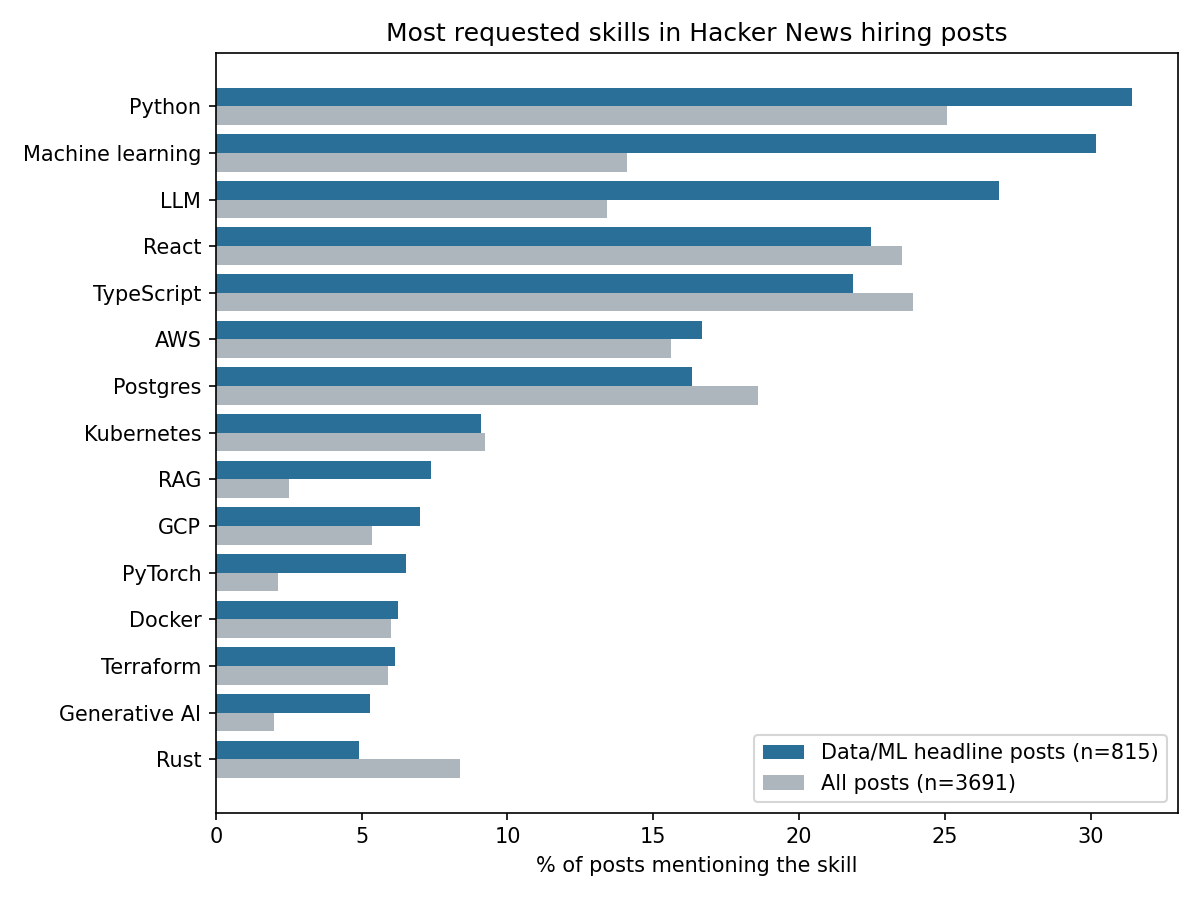
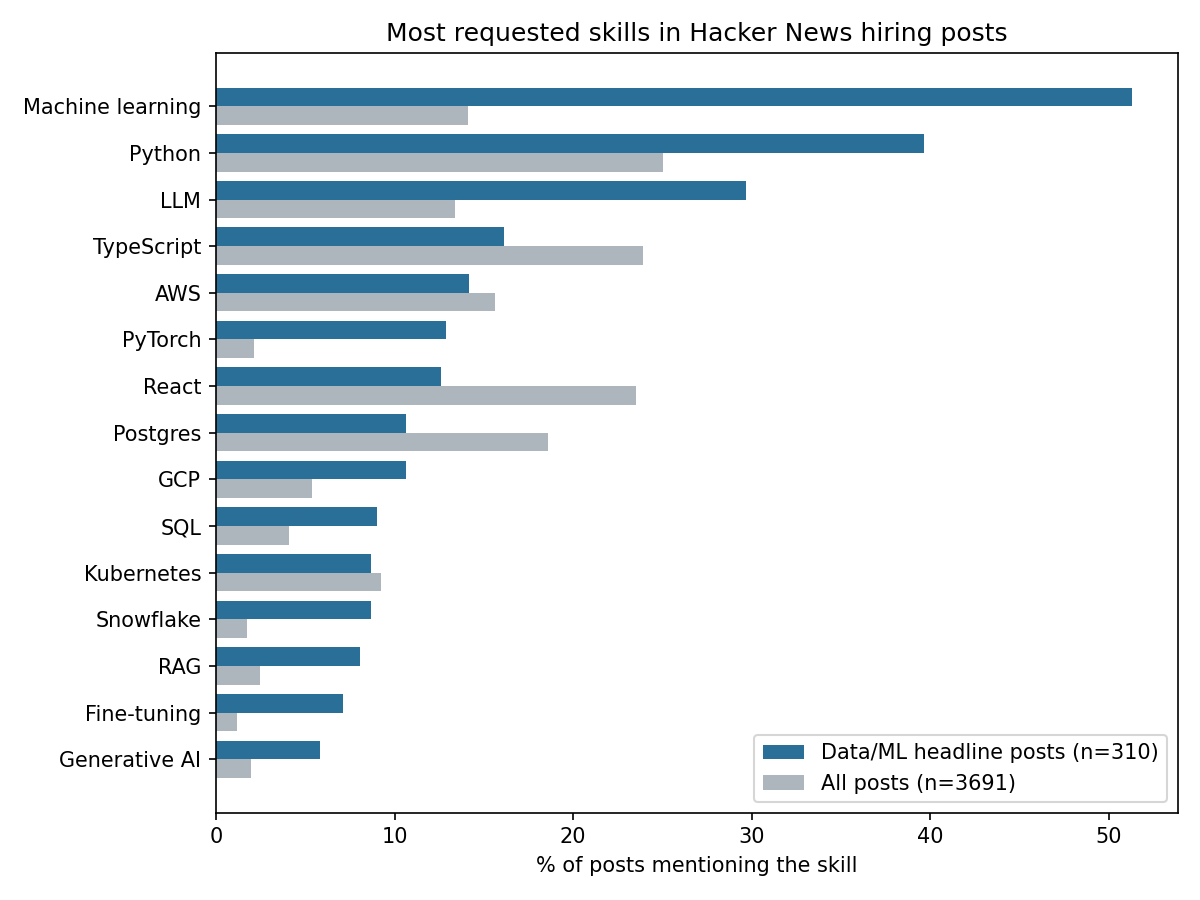
Tighten data/ML headline rule; add diagnostics script

diff --git a/src/diagnostics.py b/src/diagnostics.py
@@ -1,0 +1,37 @@
+"""Quick checks before hand-labelling: is the headline flag noisy, and is SQL really rare?
+
+Usage (from the repo root):
+    python src/diagnostics.py
+Prints a short report. Do not commit the output: it contains headline text.
+"""
+import pandas as pd
+
+from explore_skills import DATA_ML_HEADLINE
+from skills import find_skills
+
+df = pd.read_csv("data/raw/hn_hiring_posts.csv")
+df["headline"] = df["headline"].fillna("")
+df["text"] = df["text"].fillna("")
+flag = df["headline"].str.contains(DATA_ML_HEADLINE)
+
+print("=== 1. Skill shares among all posts and flagged data/ML posts ===")
+overall = pd.read_csv("results/skills_overall.csv", index_col=0)
+wanted = ["SQL", "Python", "Pandas", "Spark", "Airflow", "dbt", "Snowflake", "PyTorch"]
+print((overall.loc[wanted, ["share_all_posts", "share_data_ml_posts"]] * 100).round(1).to_string())
+
+print("\n=== 2. Raw-text cross-check for SQL (not using skills.py) ===")
+raw_sql = df["text"].str.contains(r"\bsql\b", case=False, regex=True)
+any_sql = df["text"].str.contains("sql", case=False, regex=False)
+print(f"posts with the word SQL:           {raw_sql.sum()} ({raw_sql.mean() * 100:.1f}%)")
+print(f"posts containing 'sql' anywhere:   {any_sql.sum()} ({any_sql.mean() * 100:.1f}%)  "
+      "(includes PostgreSQL, MySQL, NoSQL)")
+print(f"flagged data/ML posts with SQL:    {raw_sql[flag].sum()} of {flag.sum()} "
+      f"({raw_sql[flag].mean() * 100:.1f}%)")
+
+print("\n=== 3. 25 random flagged headlines (are these really data/ML roles?) ===")
+for h in df.loc[flag, "headline"].sample(25, random_state=1):
+    print("  " + h[:110])
+
+print("\n=== 4. 15-post skill spot-check ===")
+for _, r in df.sample(15, random_state=1).iterrows():
+    print(f"  {r['headline'][:80]} -> {sorted(find_skills(r['text']))}")

diff --git a/src/explore_skills.py b/src/explore_skills.py
@@ -18,12 +18,17 @@ import pandas as pd
 
 from skills import SKILL_PATTERNS, find_skills
 
-# Weak label: does the HEADLINE (first line of the post) look like a data/ML role?
-# Headlines include the company name, so this is noisy ("Acme AI | Frontend Engineer"
-# would match). Week 3 measures how noisy it is using a hand-labelled gold set.
+# Weak label: does the HEADLINE (first line of the post) name a data/ML role?
+# A bare "AI" is NOT matched: it fires on company names and web addresses
+# ("Acme AI | Frontend Engineer", "krea.ai"). Instead the rule needs a role title
+# such as "ML Engineer", "AI Engineer" or "Data Scientist". "AI Fullstack Engineer"
+# and "AI Product Engineer" are deliberately NOT matched. Week 3 measures how good
+# this rule is against a hand-labelled gold set.
 DATA_ML_HEADLINE = re.compile(
-    r"data scien|data engineer|data analy|machine learning|\bML\b|\bAI\b|\bLLM\b|\bNLP\b|"
-    r"research scien|applied scien|mlops|analytics engineer",
+    r"data[- ](?:scien|engineer|analy)|machine[- ]learning|\bML\b|"
+    r"\b(?:AI|LLM|NLP)\s+(?:(?:staff|senior|sr\.?|principal|lead)\s+)?"
+    r"(?:engineer(?:ing)?|scientist|researcher)|"
+    r"research scien|applied scien|mlops|analytics engineer|\bLLM\b|\bNLP\b",
     re.IGNORECASE,
 )
 MIN_POSTS_FOR_MONTH_ESTIMATE = 20
